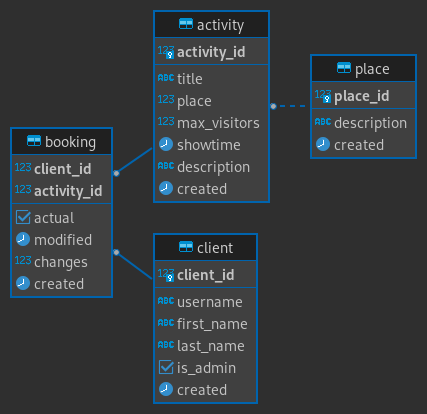
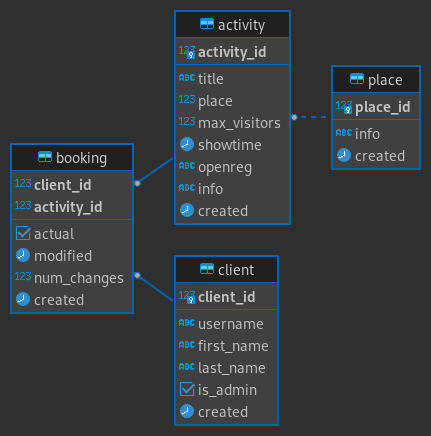
Correct SQL field names; extend structure

Changed region(s): [[0.0304, 0.0, 0.9742, 0.9855]]

diff --git a/bot_connector.py b/bot_connector.py
@@ -67,7 +67,7 @@ class BotConnector():
                 FROM {self.schema}.booking 
                 WHERE actual
                 GROUP BY activity_id) 
-            SELECT a.activity_id, title, place, max_visitors, showtime, description, r.visitors 
+            SELECT a.activity_id, title, place, max_visitors, showtime, info, r.visitors 
             FROM {self.schema}.activity a 
             LEFT JOIN reg r ON r.activity_id = a.activity_id 
             WHERE (NOW() < showtime)'''
@@ -93,19 +93,19 @@ class BotConnector():
     def set_registration(self, client_id, activity_id, value):
         """ Update user registration row """
         BASIC_QUERY = f'''
-            INSERT INTO {self.schema}.booking (client_id, activity_id, actual, modified, changes) 
+            INSERT INTO {self.schema}.booking (client_id, activity_id, actual, modified, num_changes) 
             VALUES (%s, %s, %s, NOW(), 0) 
             ON CONFLICT (client_id, activity_id) DO UPDATE 
             SET actual = EXCLUDED.actual,
                 modified = EXCLUDED.modified,
-                changes = {self.schema}.booking.changes + 1'''
+                num_changes = {self.schema}.booking.num_changes + 1'''
         parameters = (client_id, activity_id, value)
         self.__cursor.execute(BASIC_QUERY, parameters)
     
     @manage_connection
     def get_visitors_info(self, activity_id):
         BASIC_QUERY = f'''
-            SELECT c.*, b.changes FROM {self.schema}.client c
+            SELECT c.*, b.num_changes FROM {self.schema}.client c
             JOIN {self.schema}.booking b on b.client_id = c.client_id
             WHERE (b.activity_id = %s) AND b.actual'''
         self.__cursor.execute(BASIC_QUERY, (activity_id, ))
